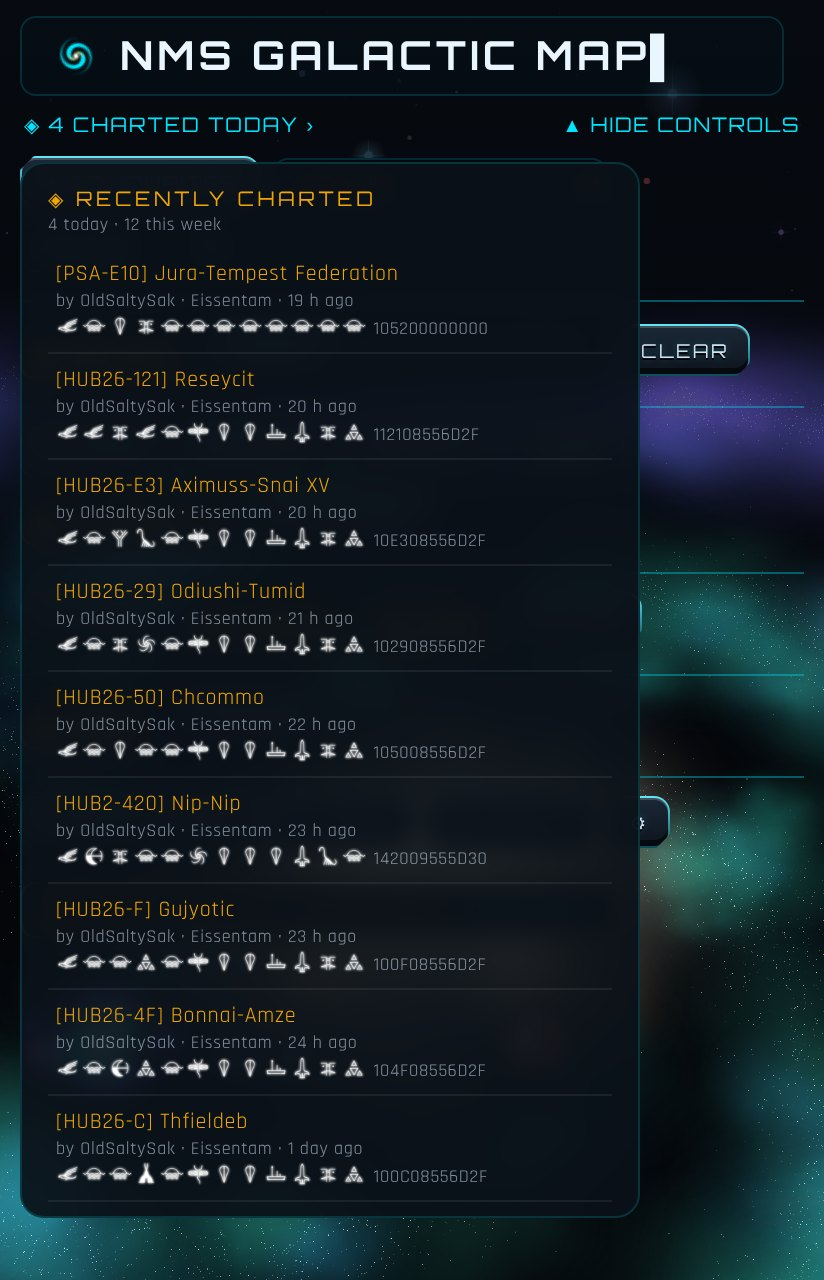
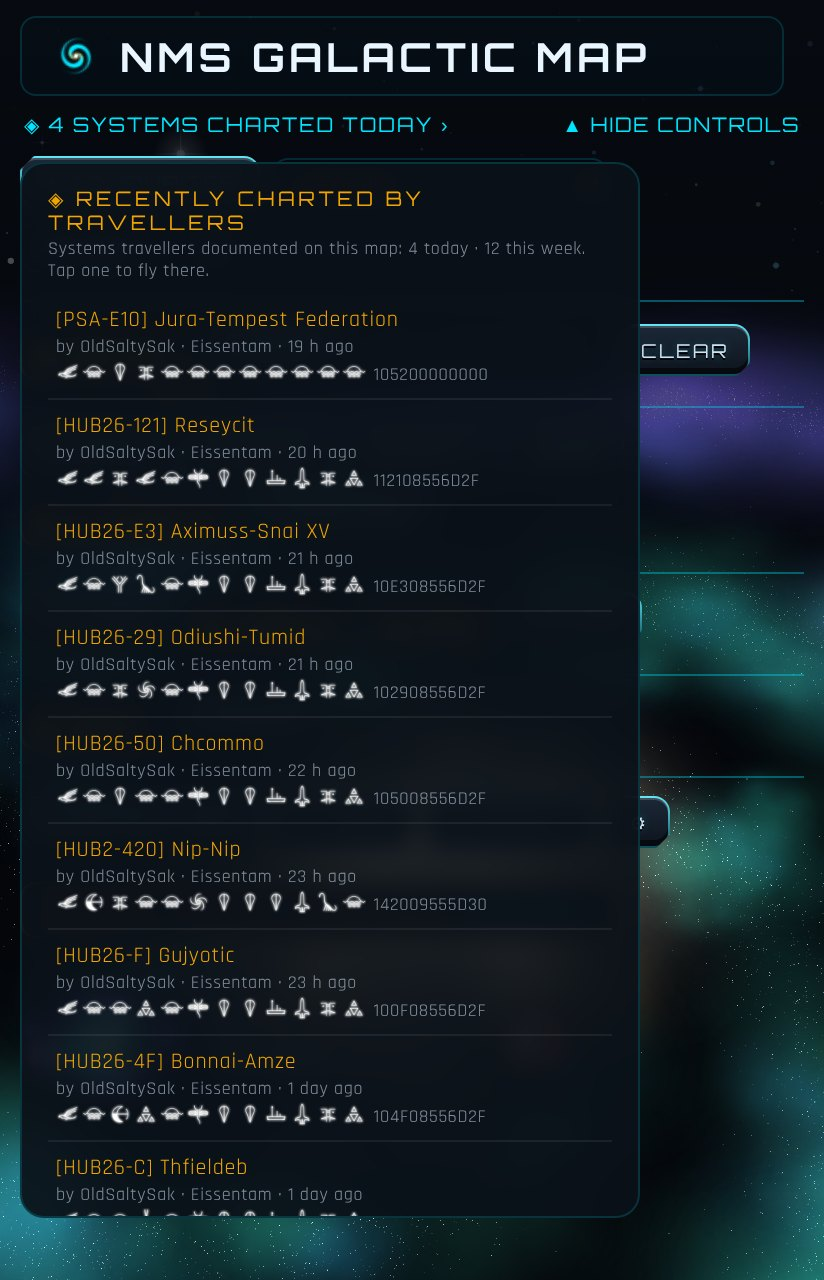
Station photos: fix the dark station card, add a one-tap "Add your station photo" button, clearer Recently charted wording
- Station card: the dark card fill was drawn over the photo at 94% opacity, so a player's station looked almost black. The fill is now drawn first and the photo on top.
- Info panel: "📷 Add your station photo" opens Edit system with the station ticked and the photo picker open; the photo then replaces the generic station icon for everyone. Hidden once a photo exists.
- Recently charted: "◈ 4 systems charted today ›", list headed "Recently charted by travellers" with a line saying what it is.
- README + screenshot updated.

Claude-Session: https://claude.ai/code/session_01RZyJje56RMWakjqPGsWmZq

diff --git a/preview.js b/preview.js
@@ -4336,10 +4336,18 @@ function buildStationCard(s,pos){
   canvas.width=CW; canvas.height=CH;
   var ctx=canvas.getContext("2d");
   var label=(s.stationName?s.stationName:"Space station").toUpperCase();
-  function drawChrome(){
+  /* 2026-10-17 fix (Tony: station card showed his photo almost black): the
+     dark card fill used to be part of drawChrome(), which onload calls AFTER
+     drawing the photo -- so a 94%-opaque fill landed on top of the picture.
+     The fill is now drawBg(), drawn first; drawChrome() is only the border
+     and the label, safe to draw over the photo. */
+  function drawBg(){
     _roundRectPath(ctx,2,2,CW-4,CH-4,14);
     ctx.fillStyle="rgba(6,12,20,0.94)";
     ctx.fill();
+  }
+  function drawChrome(){
+    _roundRectPath(ctx,2,2,CW-4,CH-4,14);
     ctx.lineWidth=3;
     ctx.strokeStyle="#5ad7ff";
     ctx.stroke();
@@ -4354,6 +4362,7 @@ function buildStationCard(s,pos){
     ctx.fillText(txt,CW/2,CH-9);
   }
   ctx.clearRect(0,0,CW,CH);
+  drawBg();
   drawChrome();
   var tex=new THREE.CanvasTexture(canvas);
   tex.minFilter=THREE.LinearFilter;
@@ -4392,6 +4401,7 @@ function buildStationCard(s,pos){
     var dw=iw*scale, dh=ih*scale;
     var dx=innerX+(innerW-dw)/2, dy=innerY+(innerH-dh)/2;
     ctx.clearRect(0,0,CW,CH);
+    drawBg();
     ctx.save();
     _roundRectPath(ctx,innerX,innerY,innerW,innerH,8);
     ctx.clip();
@@ -5469,6 +5479,8 @@ function updatePanel(s){
   else { pubShotImg.src=""; pubShotWrap.style.display="none"; }
   var pubStPhotoWrap=document.getElementById("pubStationPhotoWrap"), pubStPhotoImg=document.getElementById("pubStationPhoto");
   if(s.hasStation && s.stationPhoto){ pubStPhotoImg.src=s.stationPhoto; pubStPhotoWrap.style.display="block"; }
+  var stPhotoRow=document.getElementById("stationPhotoRow");
+  if(stPhotoRow) stPhotoRow.style.display=(s.hasStation && s.stationPhoto)?"none":"";
   else { pubStPhotoImg.src=""; pubStPhotoWrap.style.display="none"; }
   pnb.style.display=(s.publicNotes||editorTxt||s.publicScreenshot||(s.hasStation&&s.stationPhoto))?"":"none";
   setFsClass("pubNoteBox","notes",s);
@@ -9511,6 +9523,18 @@ document.getElementById("edAddSignal").addEventListener("click",function(){
   if(last) last.scrollIntoView({block:"nearest",behavior:"smooth"});
 });
 document.getElementById("bEdit").addEventListener("click",function(){ if(selected) openEditModal(); });
+/* "Add your station photo" (2026-10-17): opens Edit system with the station
+   ticked and the photo picker already open -- the picker has to be opened in
+   this same tap, browsers refuse it from a timer. Nothing is saved until the
+   traveller presses Save, same as any other edit. */
+document.getElementById("bStationPhoto").addEventListener("click",function(){
+  if(!selected) return;
+  openEditModal();
+  var st=document.getElementById("edStation");
+  if(!st.checked){ st.checked=true; st.dispatchEvent(new Event("change")); }
+  document.getElementById("edStationPhotoFile").click();
+  setTimeout(function(){ var b=document.getElementById("edStationPhotoBtn"); if(b) b.scrollIntoView({block:"center"}); },60);
+});
 /* Human-readable labels for the "Flag this field" picker -- must list the
    exact same 14 categories as FLAG_CATEGORIES above (kept in sync by hand
    with FLAG_FIELDS in netlify/functions/lib/shared.mjs, same caveat).

diff --git a/preview.html b/preview.html
@@ -1898,6 +1898,12 @@ nearby procedural space within a radius.">Search</button>
     <button class="btn" id="bEdit" title="Enter your real in-game data for this system -- name, race, economy, conflict, planets/moons and resources. Saved for every visitor to see.">Edit system</button>
     <button class="btn" id="bReport" title="Flag this system's data as wrong or inappropriate so it can be reviewed.">Report</button>
   </div>
+  <!-- 2026-10-17, Tony: players can customise their stations (Cosmos), so make
+       swapping the generic station icon for their own photo one tap away instead
+       of buried in Edit system. Hidden once the system already has a photo. -->
+  <div class="prow" id="stationPhotoRow">
+    <button class="btn" id="bStationPhoto" type="button" style="flex:1" title="Swap the generic station icon for a photo of your own customised station. Opens Edit system with the photo picker ready; your photo shows for every visitor once you Save.">&#128247; Add your station photo</button>
+  </div>
   <div id="pubNoteBox" style="display:none">
     <div class="lb" style="font-size:9px;letter-spacing:.12em;color:var(--text-faint);text-transform:uppercase;margin:8px 0 3px">Community notes</div>
     <div id="pubNote" style="font-size:12px;color:var(--text-dim);white-space:pre-wrap"></div>
@@ -2082,7 +2088,7 @@ nearby procedural space within a radius.">Search</button>
 </div>
 
 <div class="box" id="chartedPop" role="dialog" aria-label="Recently charted">
-  <div class="kicker" style="margin-bottom:2px">&#9672; Recently charted</div>
+  <div class="kicker" style="margin-bottom:2px">&#9672; Recently charted by travellers</div>
   <div class="searchResMeta" id="chartedSub" style="margin-bottom:6px"></div>
   <div id="chartedList"></div>
 </div>

diff --git a/charted.js b/charted.js
@@ -54,10 +54,11 @@
     var start = new Date(); start.setHours(0, 0, 0, 0);
     var today = items.filter(function(x){ return x.t >= start.getTime(); }).length;
     if(!items.length){ line.hidden = true; return; }
-    line.textContent = "◈ " + (today ? today + " charted today" : items.length + " charted this week") + " ›";
+    var sys = function(v){ return v === 1 ? " system" : " systems"; };
+    line.textContent = "◈ " + (today ? today + sys(today) + " charted today" : items.length + sys(items.length) + " charted this week") + " ›";
     line.setAttribute("aria-label", today + " systems charted today, " + items.length + " this week. Show the list.");
     line.hidden = false;
-    if(sub) sub.textContent = today + " today · " + items.length + " this week";
+    if(sub) sub.textContent = "Systems travellers documented on this map: " + today + " today · " + items.length + " this week. Tap one to fly there.";
     if(pop.classList.contains("show")) fill();
     if(openOnLoad){ openOnLoad = false; openWhenClear(); }
   }

diff --git a/README.md b/README.md
@@ -241,6 +241,13 @@ station or region, so it's tracked the same optional way as the station name
 itself. This is still a foundation pass: existence, name, photo, and
 alliance name are tracked, not any deeper director-specific detail.
 
+**Your own station photo.** In system view, a system with no station photo
+shows a generic station icon. Players can customise their stations in-game,
+so the system's info panel has an **📷 Add your station photo** button: it
+opens Edit system with the station ticked and the photo picker already open.
+Once you Save, your photo replaces the generic icon for every visitor, shown
+as a framed card with the station's name.
+
 **Signal markers (added 2026-09-09).** Edit system can also record the
 floating diamond-shaped signals you see near objects in-game -- what your
 own "Starmap Analysis Report" popup actually told you was there. Like
@@ -274,7 +281,7 @@ has been filled in.
 ![System info panel showing Community notes text and a submitted screenshot as two separate titled sections](screenshots/17-public-screenshot-notes.jpg)
 
 **Recently charted.** Beside *Show controls* at the top, a small counter
-(for example *◈ 4 charted today ›*) shows how many systems travellers have
+(for example *◈ 4 systems charted today ›*) shows how many systems travellers have
 documented today. Tap it for the list of everything charted in the last 7
 days: system name, who charted it, galaxy, how long ago, and the portal
 glyphs with the hex address. Tap a system to fly straight there, switching
@@ -284,7 +291,7 @@ people. The Hub's ticker links here with `?recent=1`, which opens the list
 straight away. A small feed for other sites lives at
 `/.netlify/functions/system-edit?recent=1`.
 
-<img src="screenshots/18-recently-charted.jpg" alt="Recently charted list on a phone: the 4 charted today counter beside Hide controls, and systems with who charted them, galaxy, time and portal glyphs" width="360">
+<img src="screenshots/18-recently-charted.jpg" alt="Recently charted list on a phone: the 4 systems charted today counter beside Hide controls, and systems with who charted them, galaxy, time and portal glyphs" width="360">
 
 **Import from my save file.** Inside Edit system, an optional button reads a
 real Steam/GOG `.hg` save file entirely in your own browser -- nothing is
